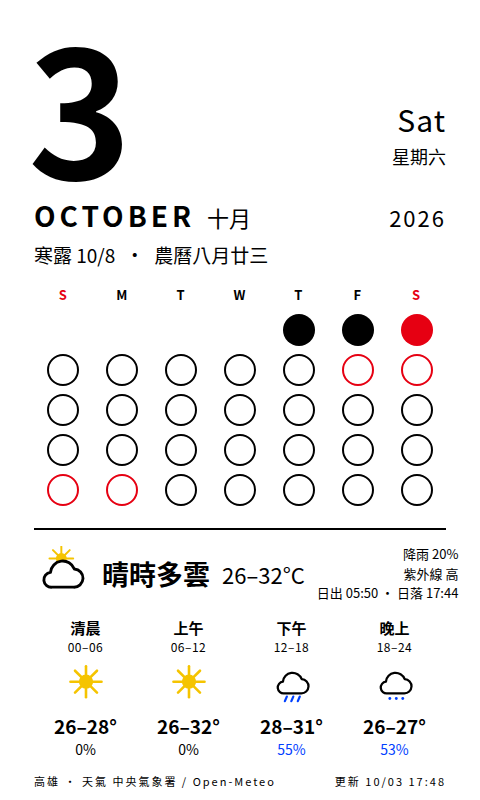
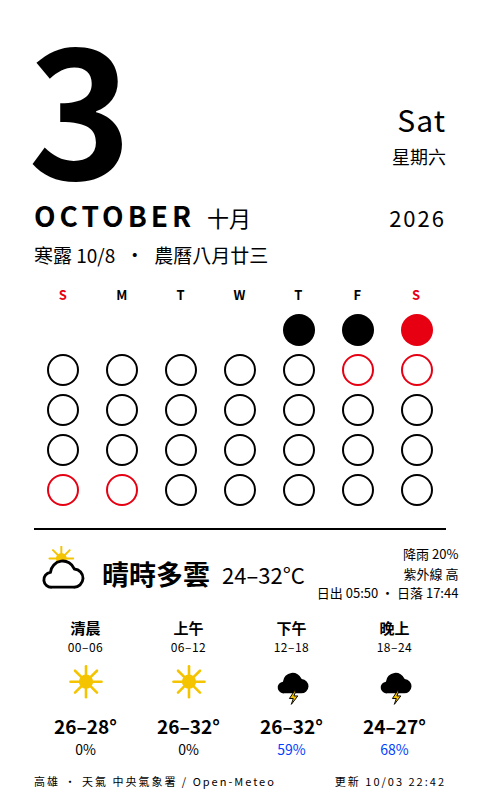
deploy: cf7d1051eb6821bc691ba0ade4beb12cdf9fe0ef

diff --git a/calendar.html b/calendar.html
@@ -54,9 +54,9 @@
   <div class="today"><span class="lunar">寒露 10/8</span><span>·</span><span class="lunar">農曆八月廿三</span></div>
   <div class="grid"><div class="h we">S</div><div class="h">M</div><div class="h">T</div><div class="h">W</div><div class="h">T</div><div class="h">F</div><div class="h we">S</div><div class="dot empty"></div><div class="dot empty"></div><div class="dot empty"></div><div class="dot empty"></div><div class="dot past" title="1"></div><div class="dot past" title="2"></div><div class="dot now" title="3"></div><div class="dot future" title="4"></div><div class="dot future" title="5"></div><div class="dot future" title="6"></div><div class="dot future" title="7"></div><div class="dot future" title="8"></div><div class="dot future hol" title="9"></div><div class="dot future hol" title="10"></div><div class="dot future" title="11"></div><div class="dot future" title="12"></div><div class="dot future" title="13"></div><div class="dot future" title="14"></div><div class="dot future" title="15"></div><div class="dot future" title="16"></div><div class="dot future" title="17"></div><div class="dot future" title="18"></div><div class="dot future" title="19"></div><div class="dot future" title="20"></div><div class="dot future" title="21"></div><div class="dot future" title="22"></div><div class="dot future" title="23"></div><div class="dot future" title="24"></div><div class="dot future hol" title="25"></div><div class="dot future hol" title="26"></div><div class="dot future" title="27"></div><div class="dot future" title="28"></div><div class="dot future" title="29"></div><div class="dot future" title="30"></div><div class="dot future" title="31"></div></div>
   <div class="wx"><div class="line">
-    <div class="wxhead"><svg viewBox="0 0 64 68" xmlns="http://www.w3.org/2000/svg"><g transform="translate(12 -4) scale(.6)"><circle cx="32" cy="32" r="11" fill="#f5c400"/><g stroke="#f5c400" stroke-width="4" stroke-linecap="round"><line x1="32" y1="32" x2="32" y2="8" transform="rotate(0 32 32)"/><line x1="32" y1="32" x2="32" y2="8" transform="rotate(45 32 32)"/><line x1="32" y1="32" x2="32" y2="8" transform="rotate(90 32 32)"/><line x1="32" y1="32" x2="32" y2="8" transform="rotate(135 32 32)"/><line x1="32" y1="32" x2="32" y2="8" transform="rotate(180 32 32)"/><line x1="32" y1="32" x2="32" y2="8" transform="rotate(225 32 32)"/><line x1="32" y1="32" x2="32" y2="8" transform="rotate(270 32 32)"/><line x1="32" y1="32" x2="32" y2="8" transform="rotate(315 32 32)"/></g></g><path d="M20 50h26a11 11 0 0 0 1-22 15 15 0 0 0-29 4 9 9 0 0 0 2 18z" fill="#fff" stroke="#000" stroke-width="3.5" stroke-linejoin="round"/></svg><span class="desc">晴時多雲</span><span class="temp">26–32°C</span>
+    <div class="wxhead"><svg viewBox="0 0 64 68" xmlns="http://www.w3.org/2000/svg"><g transform="translate(12 -4) scale(.6)"><circle cx="32" cy="32" r="11" fill="#f5c400"/><g stroke="#f5c400" stroke-width="4" stroke-linecap="round"><line x1="32" y1="32" x2="32" y2="8" transform="rotate(0 32 32)"/><line x1="32" y1="32" x2="32" y2="8" transform="rotate(45 32 32)"/><line x1="32" y1="32" x2="32" y2="8" transform="rotate(90 32 32)"/><line x1="32" y1="32" x2="32" y2="8" transform="rotate(135 32 32)"/><line x1="32" y1="32" x2="32" y2="8" transform="rotate(180 32 32)"/><line x1="32" y1="32" x2="32" y2="8" transform="rotate(225 32 32)"/><line x1="32" y1="32" x2="32" y2="8" transform="rotate(270 32 32)"/><line x1="32" y1="32" x2="32" y2="8" transform="rotate(315 32 32)"/></g></g><path d="M20 50h26a11 11 0 0 0 1-22 15 15 0 0 0-29 4 9 9 0 0 0 2 18z" fill="#fff" stroke="#000" stroke-width="3.5" stroke-linejoin="round"/></svg><span class="desc">晴時多雲</span><span class="temp">24–32°C</span>
       <div class="meta">降雨 20%<br>紫外線 高<br>日出 05:50 · 日落 17:44</div></div>
-    <div class="slots"><div class="slot"><div class="n">清晨</div><div class="hrs">00–06</div><svg viewBox="0 0 64 68" xmlns="http://www.w3.org/2000/svg"><circle cx="32" cy="32" r="11" fill="#f5c400"/><g stroke="#f5c400" stroke-width="4" stroke-linecap="round"><line x1="32" y1="32" x2="32" y2="8" transform="rotate(0 32 32)"/><line x1="32" y1="32" x2="32" y2="8" transform="rotate(45 32 32)"/><line x1="32" y1="32" x2="32" y2="8" transform="rotate(90 32 32)"/><line x1="32" y1="32" x2="32" y2="8" transform="rotate(135 32 32)"/><line x1="32" y1="32" x2="32" y2="8" transform="rotate(180 32 32)"/><line x1="32" y1="32" x2="32" y2="8" transform="rotate(225 32 32)"/><line x1="32" y1="32" x2="32" y2="8" transform="rotate(270 32 32)"/><line x1="32" y1="32" x2="32" y2="8" transform="rotate(315 32 32)"/></g></svg><div class="t">26–28°</div><div class="p dry">0%</div></div><div class="slot"><div class="n">上午</div><div class="hrs">06–12</div><svg viewBox="0 0 64 68" xmlns="http://www.w3.org/2000/svg"><circle cx="32" cy="32" r="11" fill="#f5c400"/><g stroke="#f5c400" stroke-width="4" stroke-linecap="round"><line x1="32" y1="32" x2="32" y2="8" transform="rotate(0 32 32)"/><line x1="32" y1="32" x2="32" y2="8" transform="rotate(45 32 32)"/><line x1="32" y1="32" x2="32" y2="8" transform="rotate(90 32 32)"/><line x1="32" y1="32" x2="32" y2="8" transform="rotate(135 32 32)"/><line x1="32" y1="32" x2="32" y2="8" transform="rotate(180 32 32)"/><line x1="32" y1="32" x2="32" y2="8" transform="rotate(225 32 32)"/><line x1="32" y1="32" x2="32" y2="8" transform="rotate(270 32 32)"/><line x1="32" y1="32" x2="32" y2="8" transform="rotate(315 32 32)"/></g></svg><div class="t">26–32°</div><div class="p dry">0%</div></div><div class="slot"><div class="n">下午</div><div class="hrs">12–18</div><svg viewBox="0 0 64 68" xmlns="http://www.w3.org/2000/svg"><path d="M20 50h26a11 11 0 0 0 1-22 15 15 0 0 0-29 4 9 9 0 0 0 2 18z" fill="#fff" stroke="#000" stroke-width="3.5" stroke-linejoin="round"/><g stroke="#0040ff" stroke-width="3.5" stroke-linecap="round"><line x1="24" y1="55" x2="21" y2="62"/><line x1="34" y1="55" x2="31" y2="62"/><line x1="44" y1="55" x2="41" y2="62"/></g></svg><div class="t">28–31°</div><div class="p ">55%</div></div><div class="slot"><div class="n">晚上</div><div class="hrs">18–24</div><svg viewBox="0 0 64 68" xmlns="http://www.w3.org/2000/svg"><path d="M20 50h26a11 11 0 0 0 1-22 15 15 0 0 0-29 4 9 9 0 0 0 2 18z" fill="#fff" stroke="#000" stroke-width="3.5" stroke-linejoin="round"/><g fill="#0040ff"><circle cx="24" cy="58" r="2.2"/><circle cx="34" cy="58" r="2.2"/><circle cx="44" cy="58" r="2.2"/></g></svg><div class="t">26–27°</div><div class="p ">53%</div></div></div>
+    <div class="slots"><div class="slot"><div class="n">清晨</div><div class="hrs">00–06</div><svg viewBox="0 0 64 68" xmlns="http://www.w3.org/2000/svg"><circle cx="32" cy="32" r="11" fill="#f5c400"/><g stroke="#f5c400" stroke-width="4" stroke-linecap="round"><line x1="32" y1="32" x2="32" y2="8" transform="rotate(0 32 32)"/><line x1="32" y1="32" x2="32" y2="8" transform="rotate(45 32 32)"/><line x1="32" y1="32" x2="32" y2="8" transform="rotate(90 32 32)"/><line x1="32" y1="32" x2="32" y2="8" transform="rotate(135 32 32)"/><line x1="32" y1="32" x2="32" y2="8" transform="rotate(180 32 32)"/><line x1="32" y1="32" x2="32" y2="8" transform="rotate(225 32 32)"/><line x1="32" y1="32" x2="32" y2="8" transform="rotate(270 32 32)"/><line x1="32" y1="32" x2="32" y2="8" transform="rotate(315 32 32)"/></g></svg><div class="t">26–28°</div><div class="p dry">0%</div></div><div class="slot"><div class="n">上午</div><div class="hrs">06–12</div><svg viewBox="0 0 64 68" xmlns="http://www.w3.org/2000/svg"><circle cx="32" cy="32" r="11" fill="#f5c400"/><g stroke="#f5c400" stroke-width="4" stroke-linecap="round"><line x1="32" y1="32" x2="32" y2="8" transform="rotate(0 32 32)"/><line x1="32" y1="32" x2="32" y2="8" transform="rotate(45 32 32)"/><line x1="32" y1="32" x2="32" y2="8" transform="rotate(90 32 32)"/><line x1="32" y1="32" x2="32" y2="8" transform="rotate(135 32 32)"/><line x1="32" y1="32" x2="32" y2="8" transform="rotate(180 32 32)"/><line x1="32" y1="32" x2="32" y2="8" transform="rotate(225 32 32)"/><line x1="32" y1="32" x2="32" y2="8" transform="rotate(270 32 32)"/><line x1="32" y1="32" x2="32" y2="8" transform="rotate(315 32 32)"/></g></svg><div class="t">26–32°</div><div class="p dry">0%</div></div><div class="slot"><div class="n">下午</div><div class="hrs">12–18</div><svg viewBox="0 0 64 68" xmlns="http://www.w3.org/2000/svg"><path d="M20 50h26a11 11 0 0 0 1-22 15 15 0 0 0-29 4 9 9 0 0 0 2 18z" fill="#000"/><path d="M36 46l-8 12h6l-3 9 10-13h-6l3-8z" fill="#f5c400" stroke="#000" stroke-width="1.5" stroke-linejoin="round"/></svg><div class="t">26–32°</div><div class="p ">59%</div></div><div class="slot"><div class="n">晚上</div><div class="hrs">18–24</div><svg viewBox="0 0 64 68" xmlns="http://www.w3.org/2000/svg"><path d="M20 50h26a11 11 0 0 0 1-22 15 15 0 0 0-29 4 9 9 0 0 0 2 18z" fill="#000"/><path d="M36 46l-8 12h6l-3 9 10-13h-6l3-8z" fill="#f5c400" stroke="#000" stroke-width="1.5" stroke-linejoin="round"/></svg><div class="t">24–27°</div><div class="p ">68%</div></div></div>
   </div></div>
-  <div class="foot"><span>高雄 · 天氣 中央氣象署 / Open-Meteo</span><span>更新 10/03 17:48</span></div>
+  <div class="foot"><span>高雄 · 天氣 中央氣象署 / Open-Meteo</span><span>更新 10/03 22:42</span></div>
 </div></body></html>
